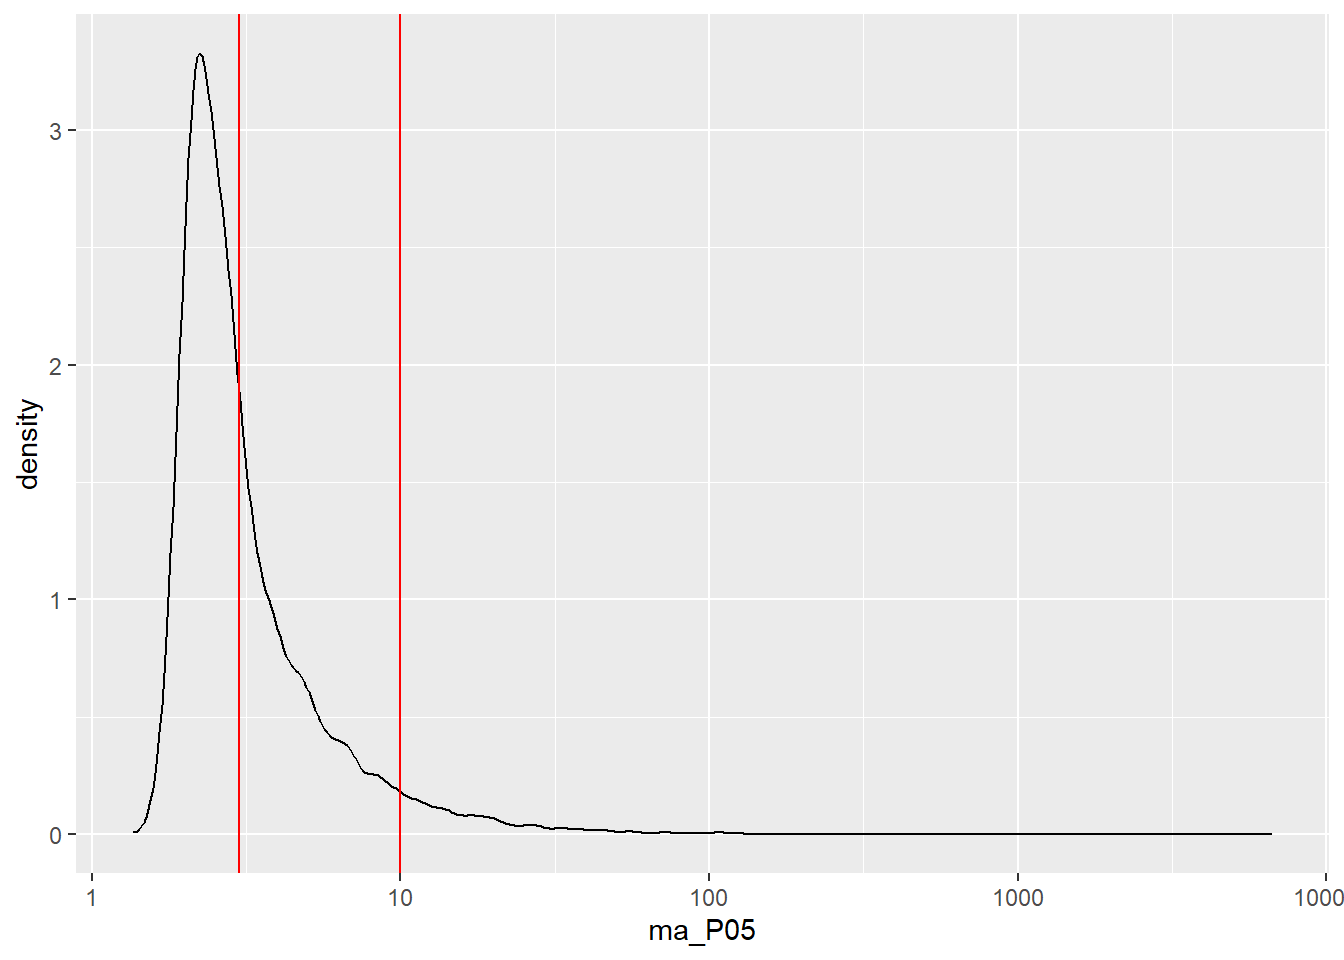
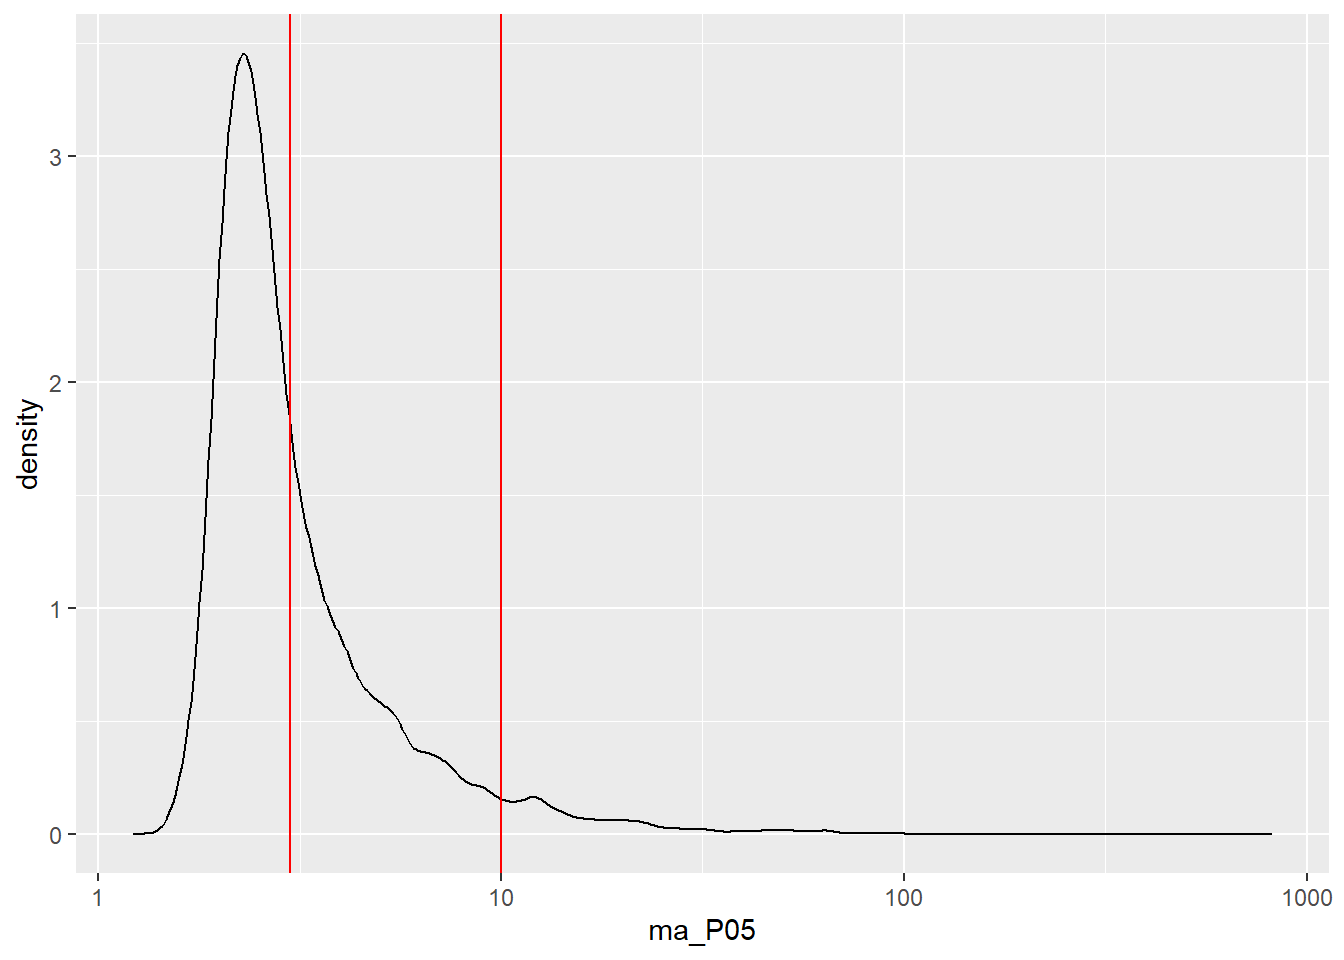
headings

diff --git a/docs/pages/course_overview.html b/docs/pages/course_overview.html
@@ -318,8 +318,8 @@ ul.task-list li input[type="checkbox"] {
 <p>In this course environmental risk assessment covers</p>
 <ul>
 <li><p>Red list assessments (classification of status of species)</p></li>
-<li><p>Pest risk assessments (introduction, establishment and spread of pests or invasive species)</p></li>
-<li><p>Ecological risk assessment (effect on ecological systems from chemical exposure)</p></li>
+<li><p>Pest risk assessments (introduction, establishment, spread and impact of pests or invasive species)</p></li>
+<li><p>Ecological/Environmental risk assessment (effect on ecological systems from chemical exposure)</p></li>
 <li><p>Relevant material from the general parts</p></li>
 </ul>
 <p>TO BE FURTHER UPDATED</p>

diff --git a/docs/pages/kernelmodels.html b/docs/pages/kernelmodels.html
@@ -313,7 +313,7 @@ pre > code.sourceCode > span > a:first-child::before { text-decoration: underlin
 <div class="sourceCode cell-code" id="cb8"><pre class="sourceCode r code-with-copy"><code class="sourceCode r"><span id="cb8-1"><a href="#cb8-1" aria-hidden="true" tabindex="-1"></a><span class="fu">quantile</span>(output<span class="sc">$</span>ma_P05,<span class="at">probs=</span><span class="fl">0.95</span>)</span></code><button title="Copy to Clipboard" class="code-copy-button"><i class="bi"></i></button></pre></div>
 <div class="cell-output cell-output-stdout">
 <pre><code>     95% 
-9.876264 </code></pre>
+9.674967 </code></pre>
 </div>
 </div>
 <div class="cell">
